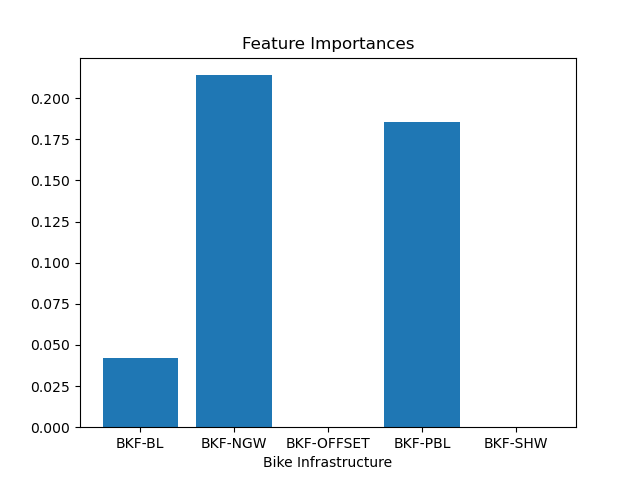
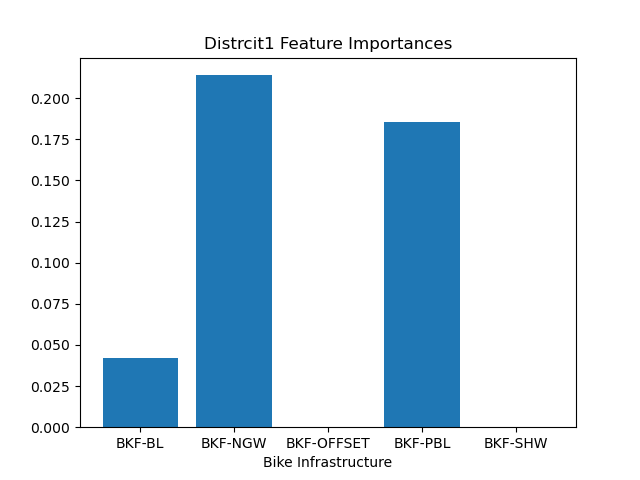
feature importance

Changed region(s): [[0.3125, 0.0625, 0.7188, 0.125]]

diff --git a/prediction.py b/prediction.py
@@ -37,7 +37,7 @@ def make_feature(name_dict, test):
     np.array(bike)
     plt.bar(bike,importance)
     plt.xlabel("Bike Infrastructure")
-    plt.title("Feature Importances")
+    plt.title(test + " Feature Importances")
     image = test + '.png'
     plt.savefig(image)
     print(importance)
@@ -100,12 +100,12 @@ def main():
     }
     print("test")
 
-    make_feature(name_dict1, 'Distrcit1')
+    # make_feature(name_dict1, 'Distrcit1')
     # make_feature(name_dict2, 'District2')
     # make_feature(name_dict3, 'District3')
     # make_feature(name_dict4, 'District4')
-    # maske_feature(name_dict6, 'District6')
-    # make_feature(name_dict7, 'District7')
+    # make_feature(name_dict6, 'District6')
+    make_feature(name_dict7, 'District7')
     
 
 
